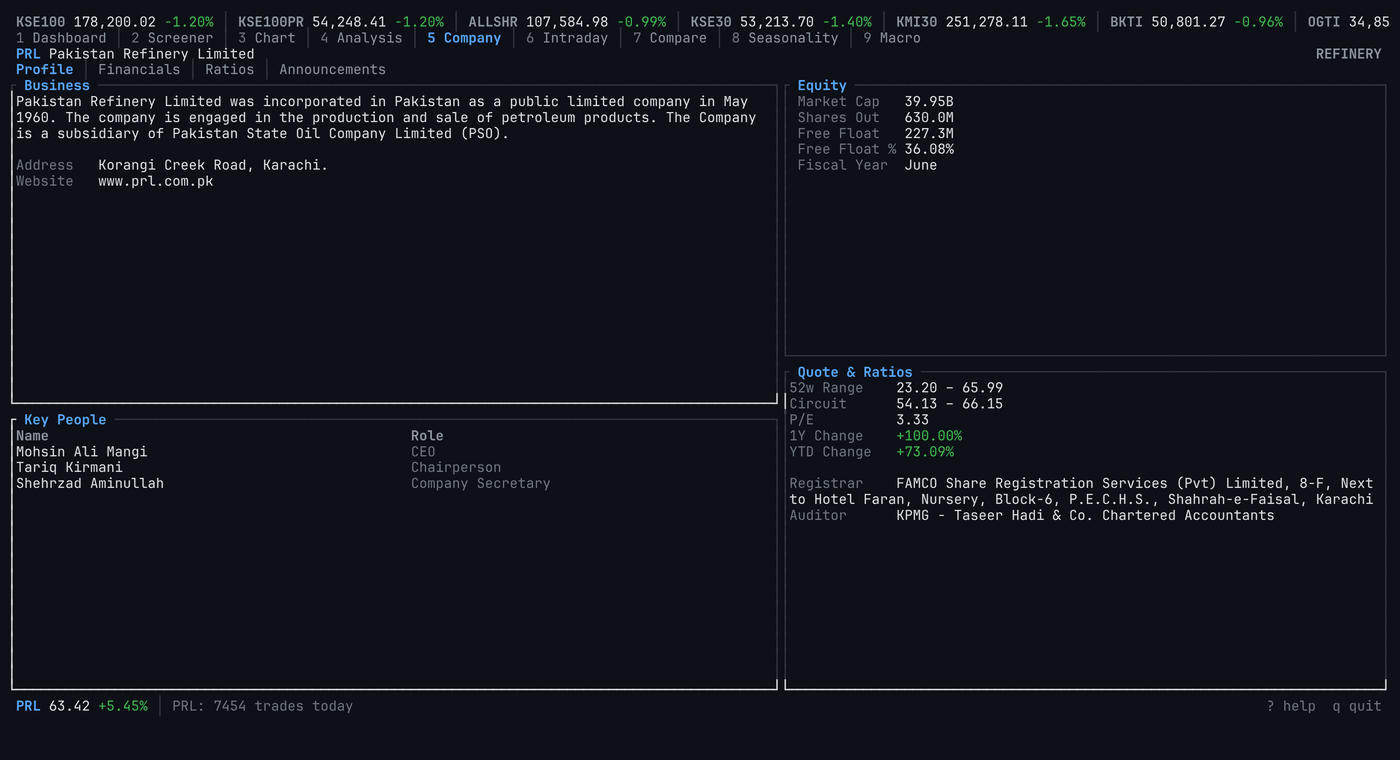
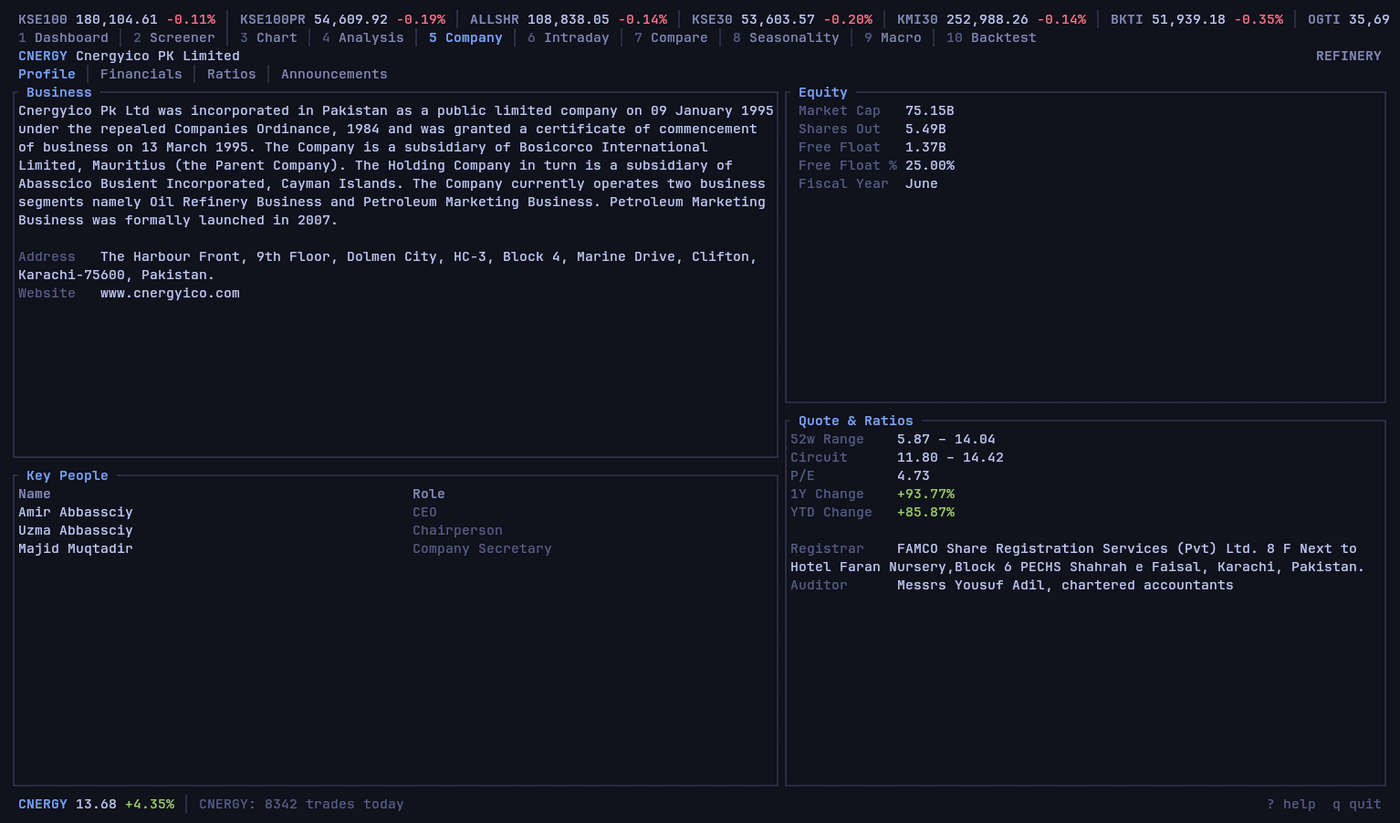
Reshoot the screenshots from a graphics-capable terminal
The old pipeline captured an ANSI dump from a tmux pane and rendered it
through a headless browser. Charts are now bitmaps handed to the
terminal out of band, and no capture of the cell grid can contain one —
so every chart in the README was a braille approximation of a screen
that no longer looks like that.

capture.sh now drives the real binary in a fixed-size kitty window and
photographs the window, keying over kitty's own socket so it never
needs focus. Fewer moving parts than before: no chromium, no ANSI
round-trip.

Also: shots are taken in the `midnight` theme so they share one
background whatever the machine's terminal is themed as; the backtester
gets a picture, taken after a run rather than of an empty results pane;
and the binary is found by asking cargo where it builds, which a shared
target directory had been defeating.

diff --git a/README.md b/README.md
@@ -39,9 +39,15 @@ Timeframes: 5D, 1M, 3M, 6M, YTD, 1Y, 2Y, 3Y, 5Y and MAX.
 | **Company** | ![Company](docs/company.png) |
 | **Intraday** | ![Intraday](docs/intraday.png) |
 | **Seasonality** | ![Seasonality](docs/seasonality.png) |
+| **Backtest** | ![Backtest](docs/backtest.png) |
 | **Keys (`?`)** | ![Help](docs/help.png) |
 
 </details>
+
+Every screenshot is a photograph of a real session in the `midnight` theme, with
+charts drawn as bitmaps through the terminal graphics protocol —
+[`docs/capture.sh`](docs/capture.sh) takes them, so they are reproducible rather
+than curated.
 
 
 ## Install
@@ -208,7 +214,9 @@ rasterised into the picture.
 
 Everywhere else — an older terminal, a font without braille, inside tmux or
 screen — the braille canvas is still what runs, and nothing about the app
-changes. Images are also skipped for any frame with a dialog over it, and
+changes. The `dots` chart style belongs to that path: it draws the close line in
+braille for a font that renders half-blocks badly, so `c` only offers it where
+there are glyphs to choose between. Images are also skipped for any frame with a dialog over it, and
 turned off entirely by `PSXTUI_GRAPHICS=off`.
 
 Bitmaps are zlib-compressed before they go down the pty and are only re-sent
@@ -228,7 +236,7 @@ Press `?` in the app for the full list.
 | `W` / `e` | Watchlist only / equities only |
 | `w` | Add or remove the current symbol from the watchlist |
 | `[` / `]` | Chart range · `i` cycles the indicator pane |
-| `c` | Chart style: candles → line → dots → area (pixels where the terminal supports it, else braille) |
+| `c` | Chart style: candles → line → area, plus dots on a terminal drawing with glyphs |
 | `m` / `e` / `b` | Toggle SMA / EMA / Bollinger overlays |
 | `a` / `x` | Compare: add a symbol (opens the picker) / remove one · `c` resets |
 | `r` | Refresh · `q` quit |
@@ -507,9 +515,12 @@ cargo run --example live_smoke # exercises every parser against the live portal
 `live_smoke` is the one that catches a PSX layout change — unit tests only prove
 the parsers handle markup we wrote ourselves.
 
-`capture.sh` drives the real binary in a fixed-size tmux pane and photographs
+`capture.sh` drives the real binary in a fixed-size kitty window and photographs
 every screen, so the images above are reproducible rather than hand-cropped.
-They show live PSX data from the session they were captured in.
+They show live PSX data from the session they were captured in. It photographs a
+real window rather than replaying an ANSI dump because a chart is a bitmap the
+terminal was handed out of band — no capture of the cell grid can contain one.
+Needs kitty, xdotool and ImageMagick on X11.
 
 CI (`.github/workflows/ci.yml`) runs the tests on Linux, macOS **and Windows** —
 development happens on Linux, so the Windows job is the only thing keeping that
